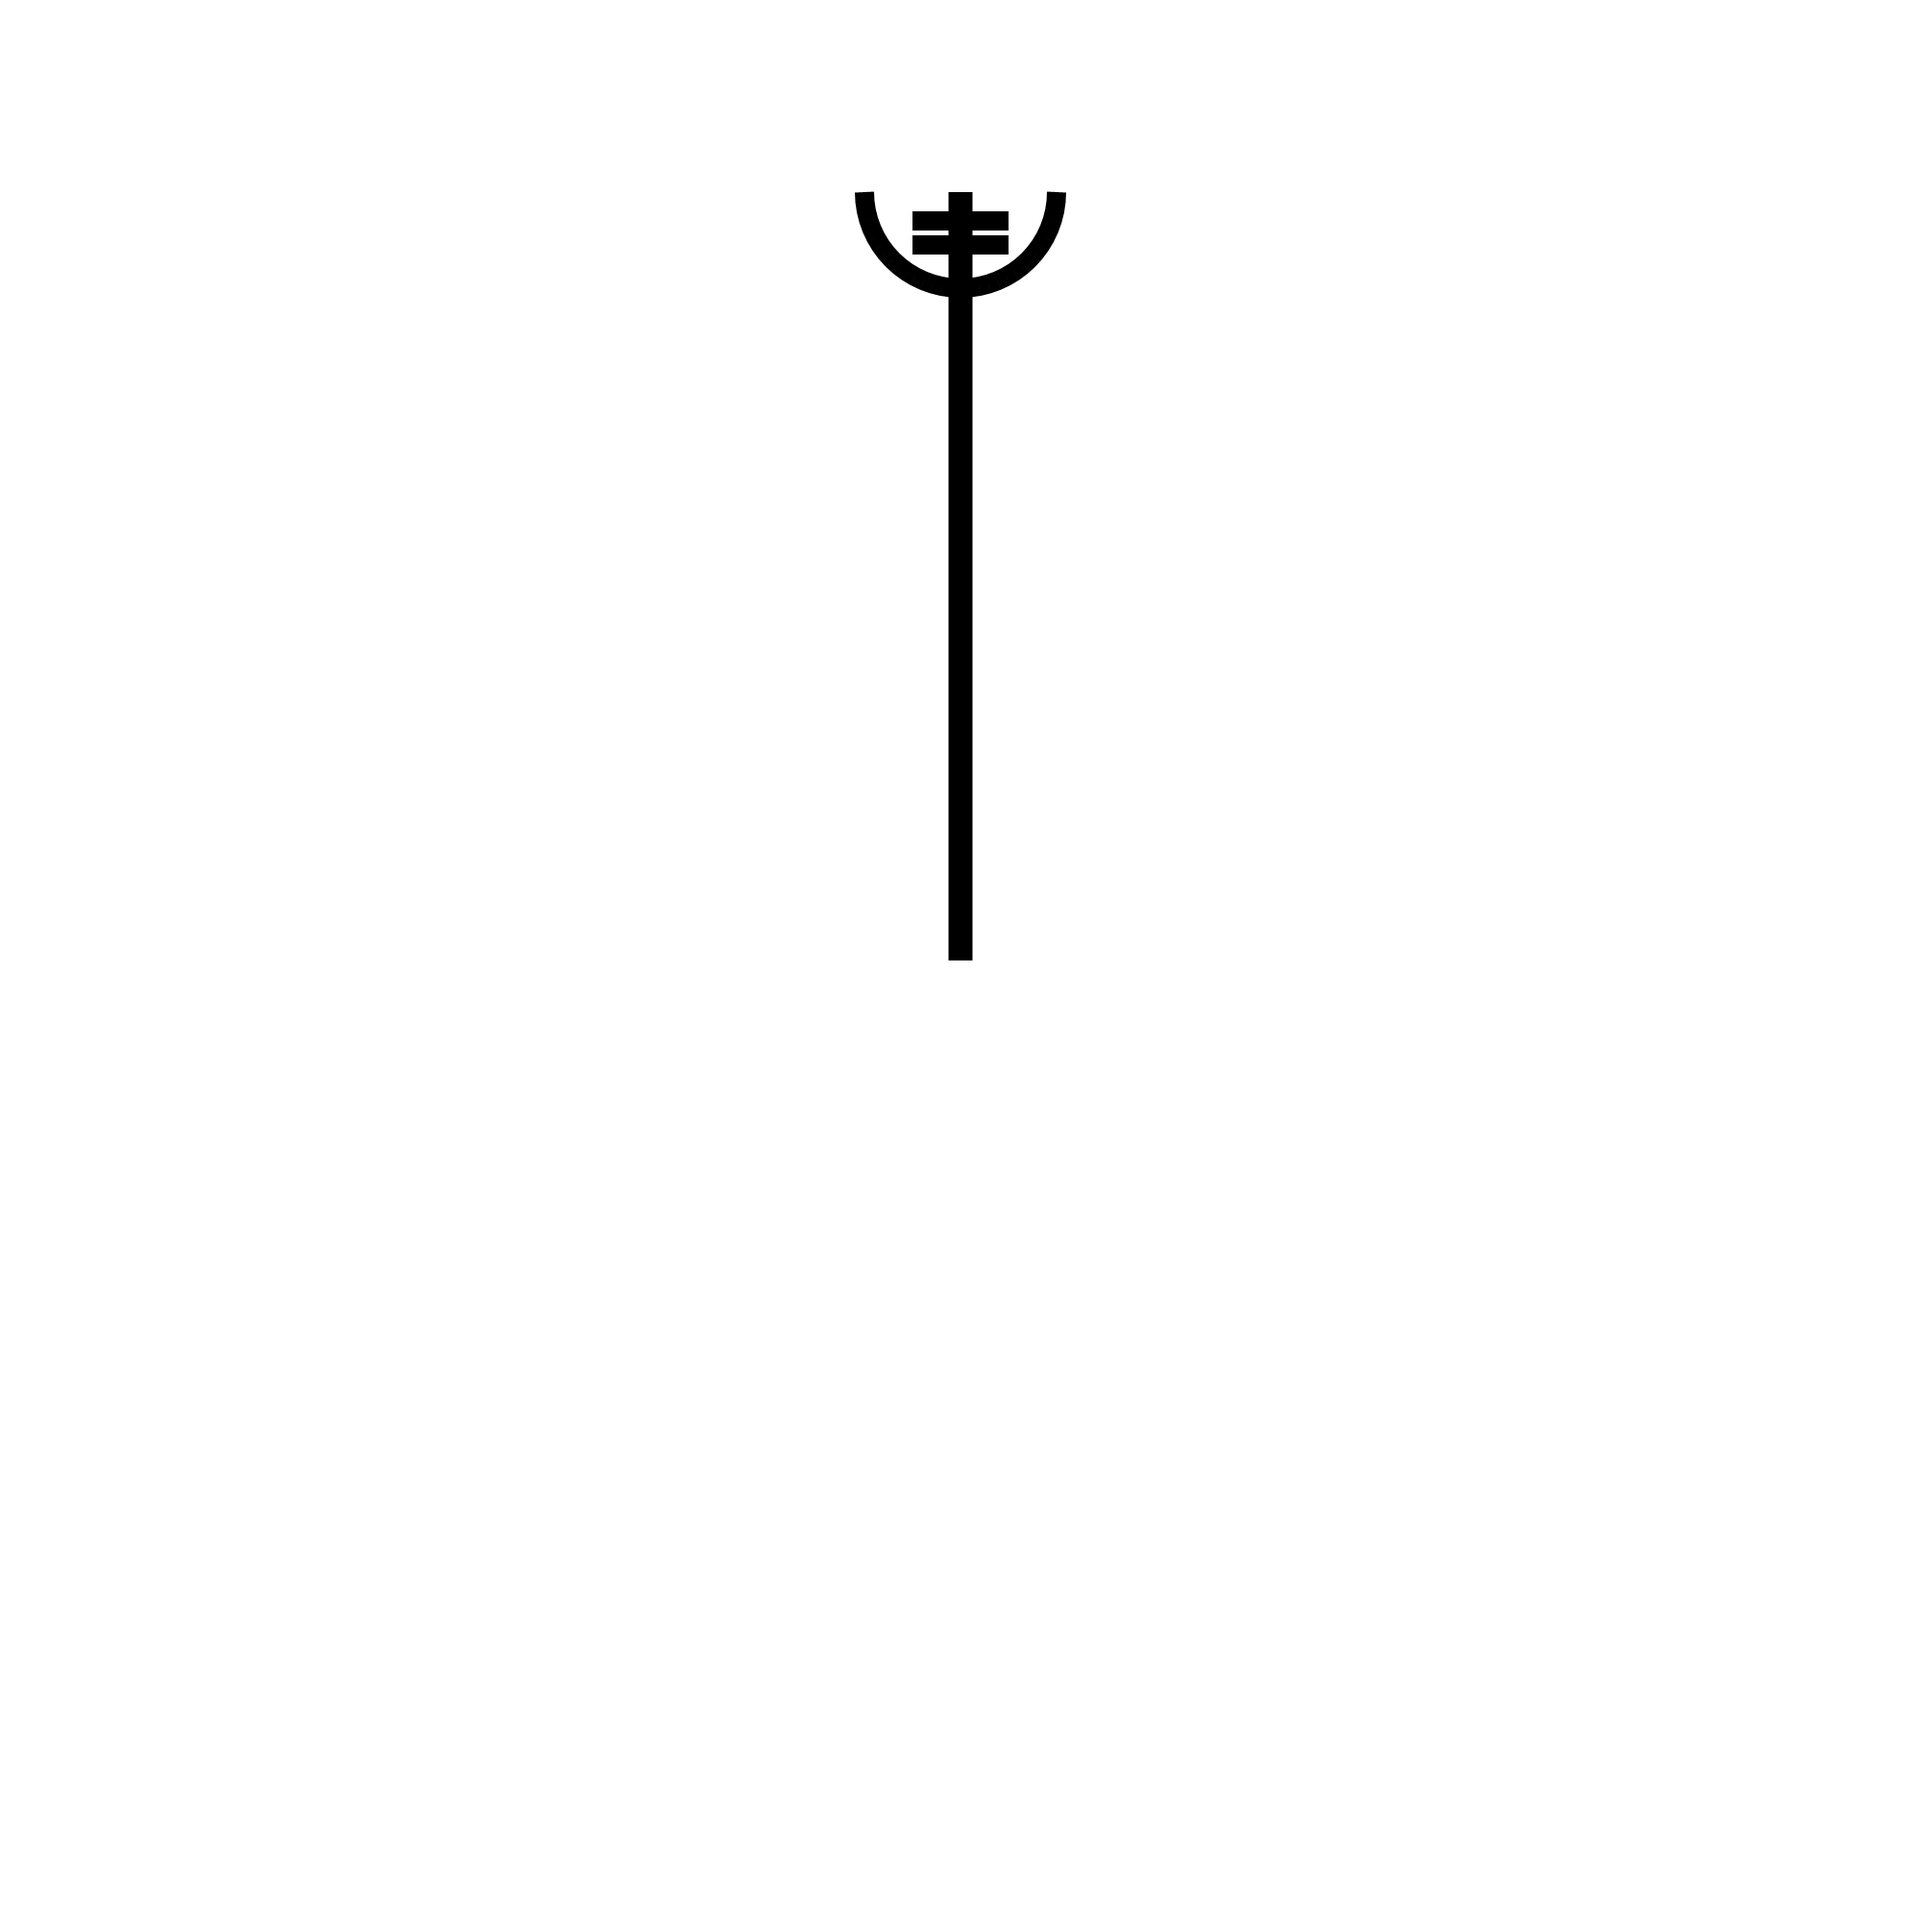
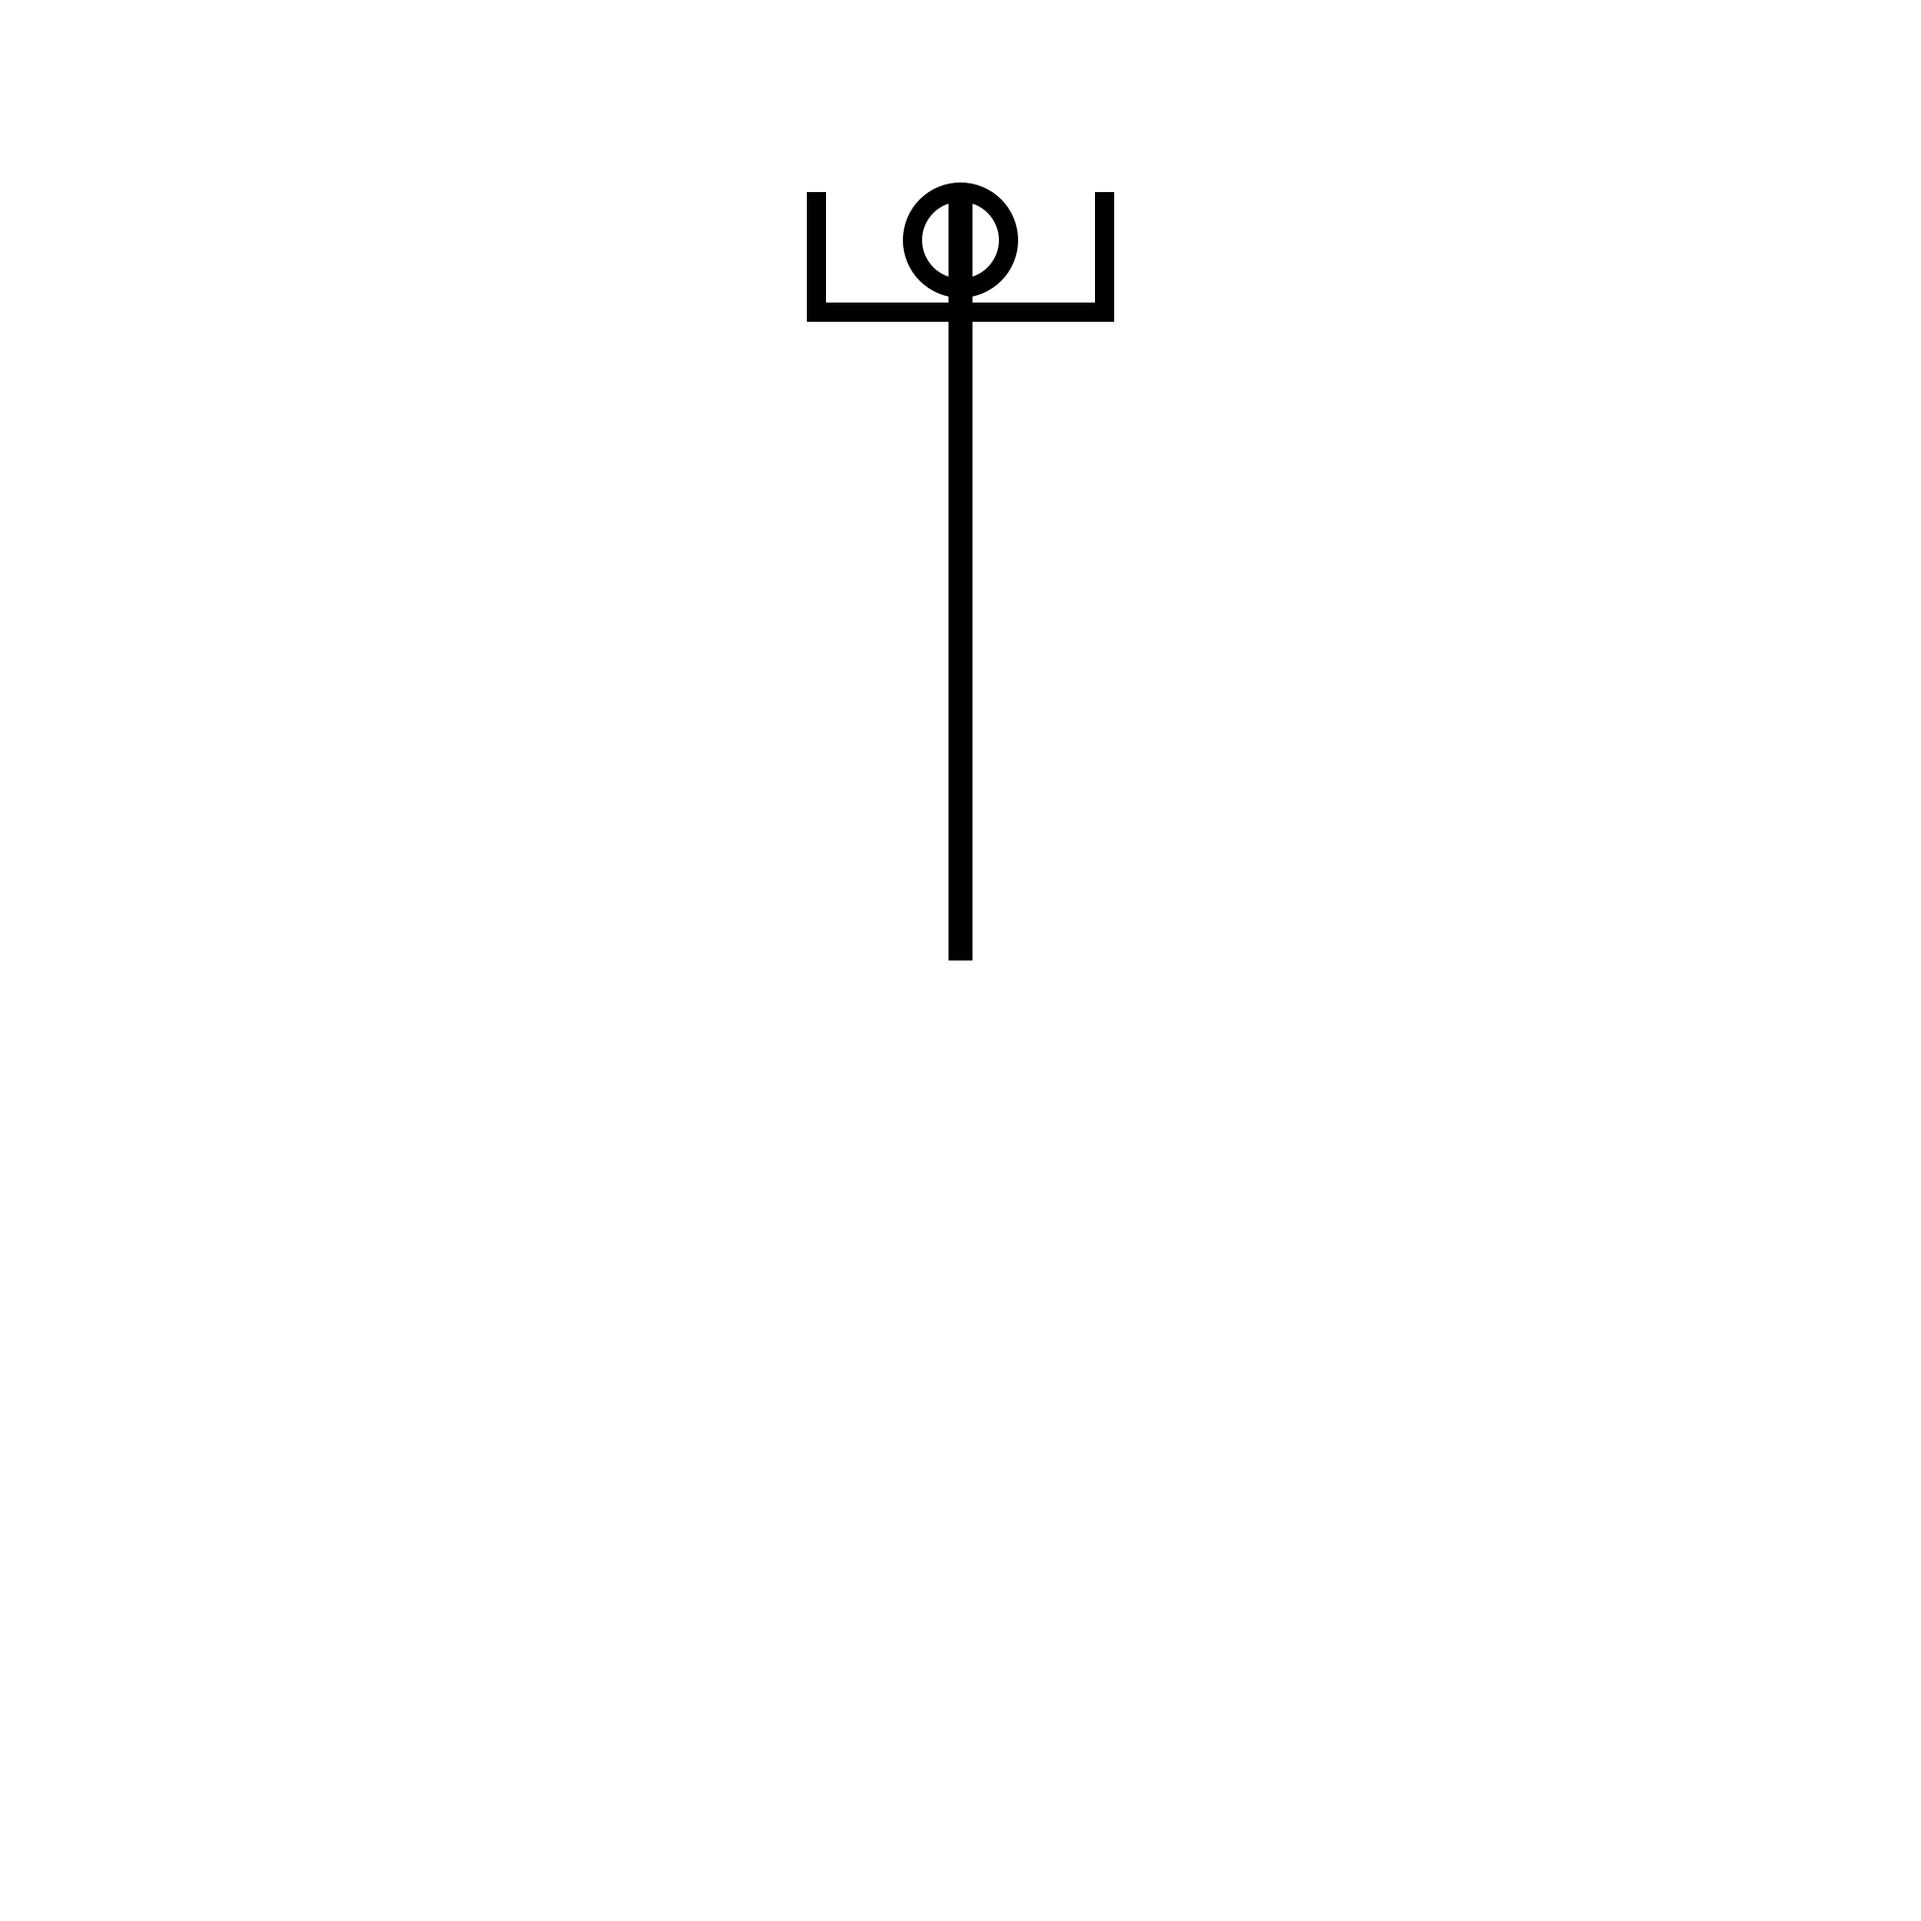
Adding more

Changed region(s): [[0.403, 0.093, 0.589, 0.186]]

diff --git a/NordicSpellCrafting/Classifications.py b/NordicSpellCrafting/Classifications.py
@@ -27,6 +27,17 @@ def bigCurve(image): # This is only used in the top most section of the initial 
     )
     image.stroke_path(path, paint, stroke_width=20)
 
+def halfRec(ctx):
+    ctx.stroke_segment(850, 200, 850, 350)
+    ctx.stroke_segment(840, 350, 1160, 350)
+    ctx.stroke_segment(1150, 350, 1150, 200)
+
+def smallHalfRec(ctx):
+    ctx.stroke_segment(850, 200, 850, 325)
+    ctx.stroke_segment(840, 325, 1160, 325)
+    ctx.stroke_segment(1150, 325, 1150, 200)
+
+
 def mainLine(ctx, x=0, y=0):
     ctx.stroke_segment(x, y, 1000, 1000)
 
@@ -50,6 +61,16 @@ def curveDown(image):
     )
     image.stroke_path(path, paint, stroke_width=20)
 
+def lineCirc(image):
+    path = pixie.parse_path(
+    """
+    M 950 250
+    A 50 50 90 0 1 1050 250
+    A 50 50 90 0 1 950 250
+    """
+    )
+    image.stroke_path(path, paint, stroke_width=20)
+
 def halfArrowR(ctx):
     ctx.stroke_segment(1005, 205, 1050, 310)
 
@@ -59,8 +80,8 @@ def keyblade(ctx):
     ctx.stroke_segment(1000, 240, 1080, 240)
 
 def equals(ctx):
-    ctx.stroke_segment(950, 230, 1050, 230)
-    ctx.stroke_segment(950, 255, 1050, 255)
+    ctx.stroke_segment(925, 240, 1075, 240)
+    ctx.stroke_segment(925, 270, 1075, 270)
 
 def flag(image):
     path = pixie.parse_path(
@@ -98,11 +119,10 @@ def main():
     ctx.stroke_style = paint
     ctx.line_width = 25
     mainLine(ctx, 1000, 200)
-    smallCurve(image)
 
 
     ctx.line_width = 20
-    equals(ctx)
+    smallHalfRec(ctx)
 
 
 

diff --git a/NordicSpellCrafting/Nordify.py b/NordicSpellCrafting/Nordify.py
@@ -1,6 +1,4 @@
 
-git config --global user.email "you@example.com"
-  git config --global user.name "Your Name"
 
 class Spell:
     def __init__(spell, comp1, comp2, comp3, comp4):
